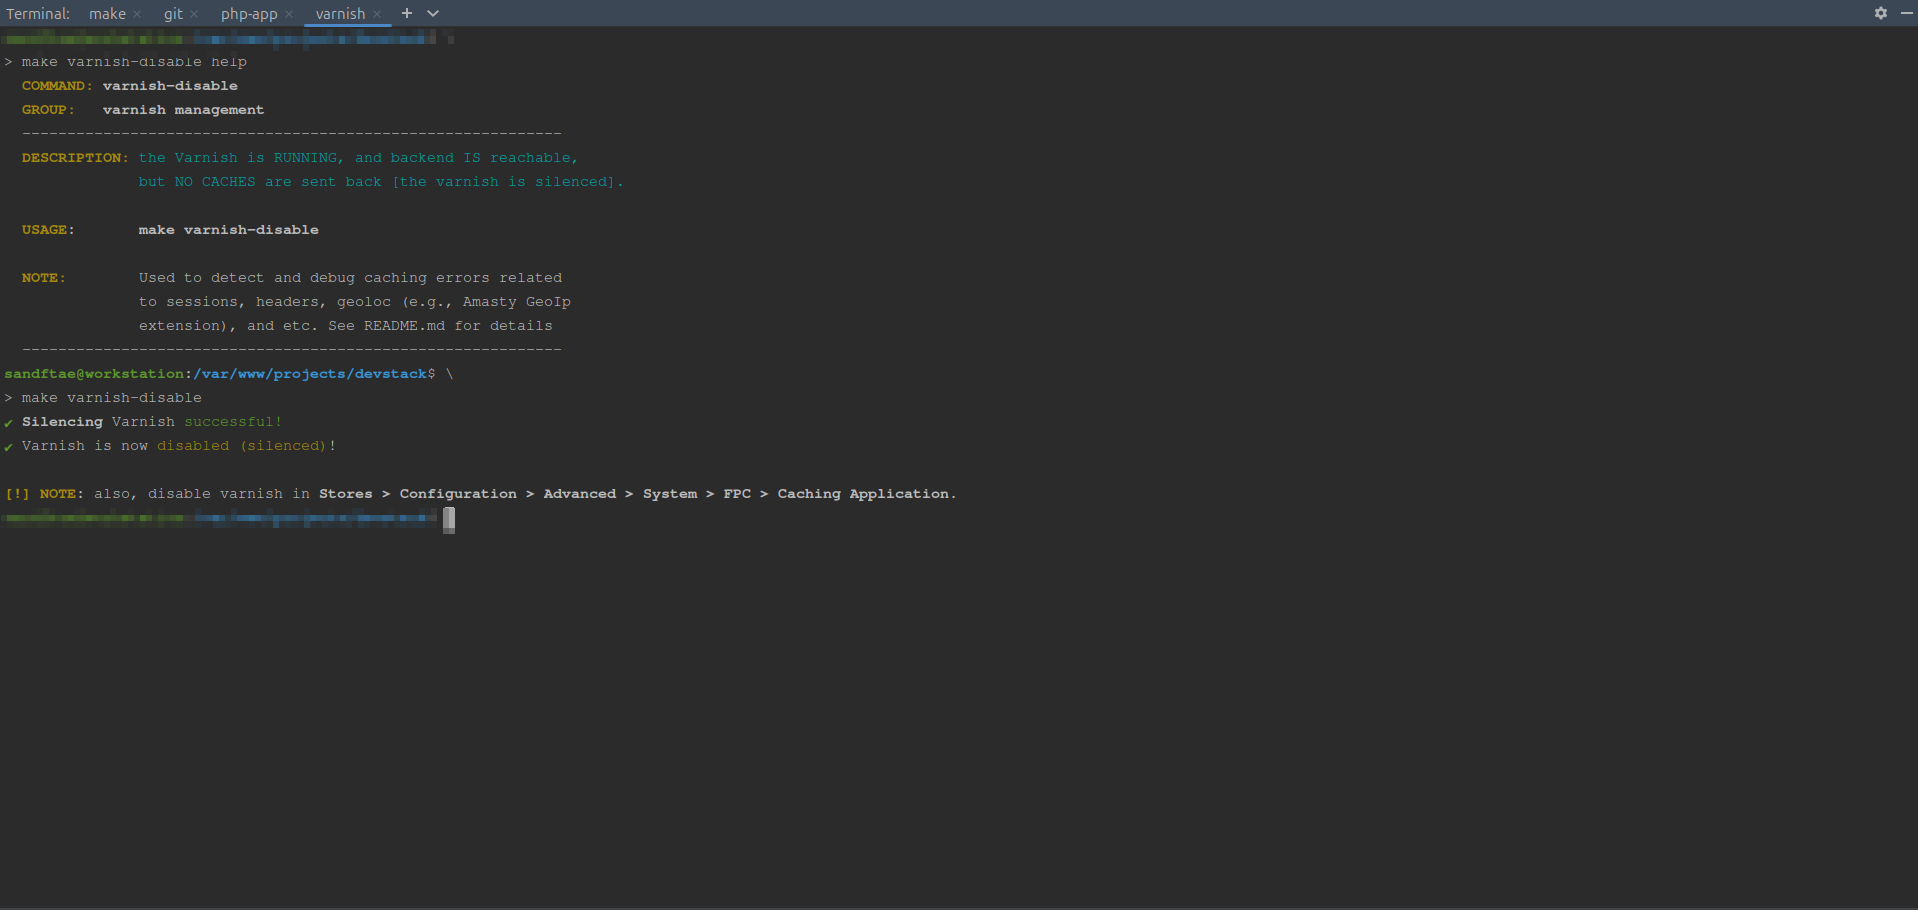
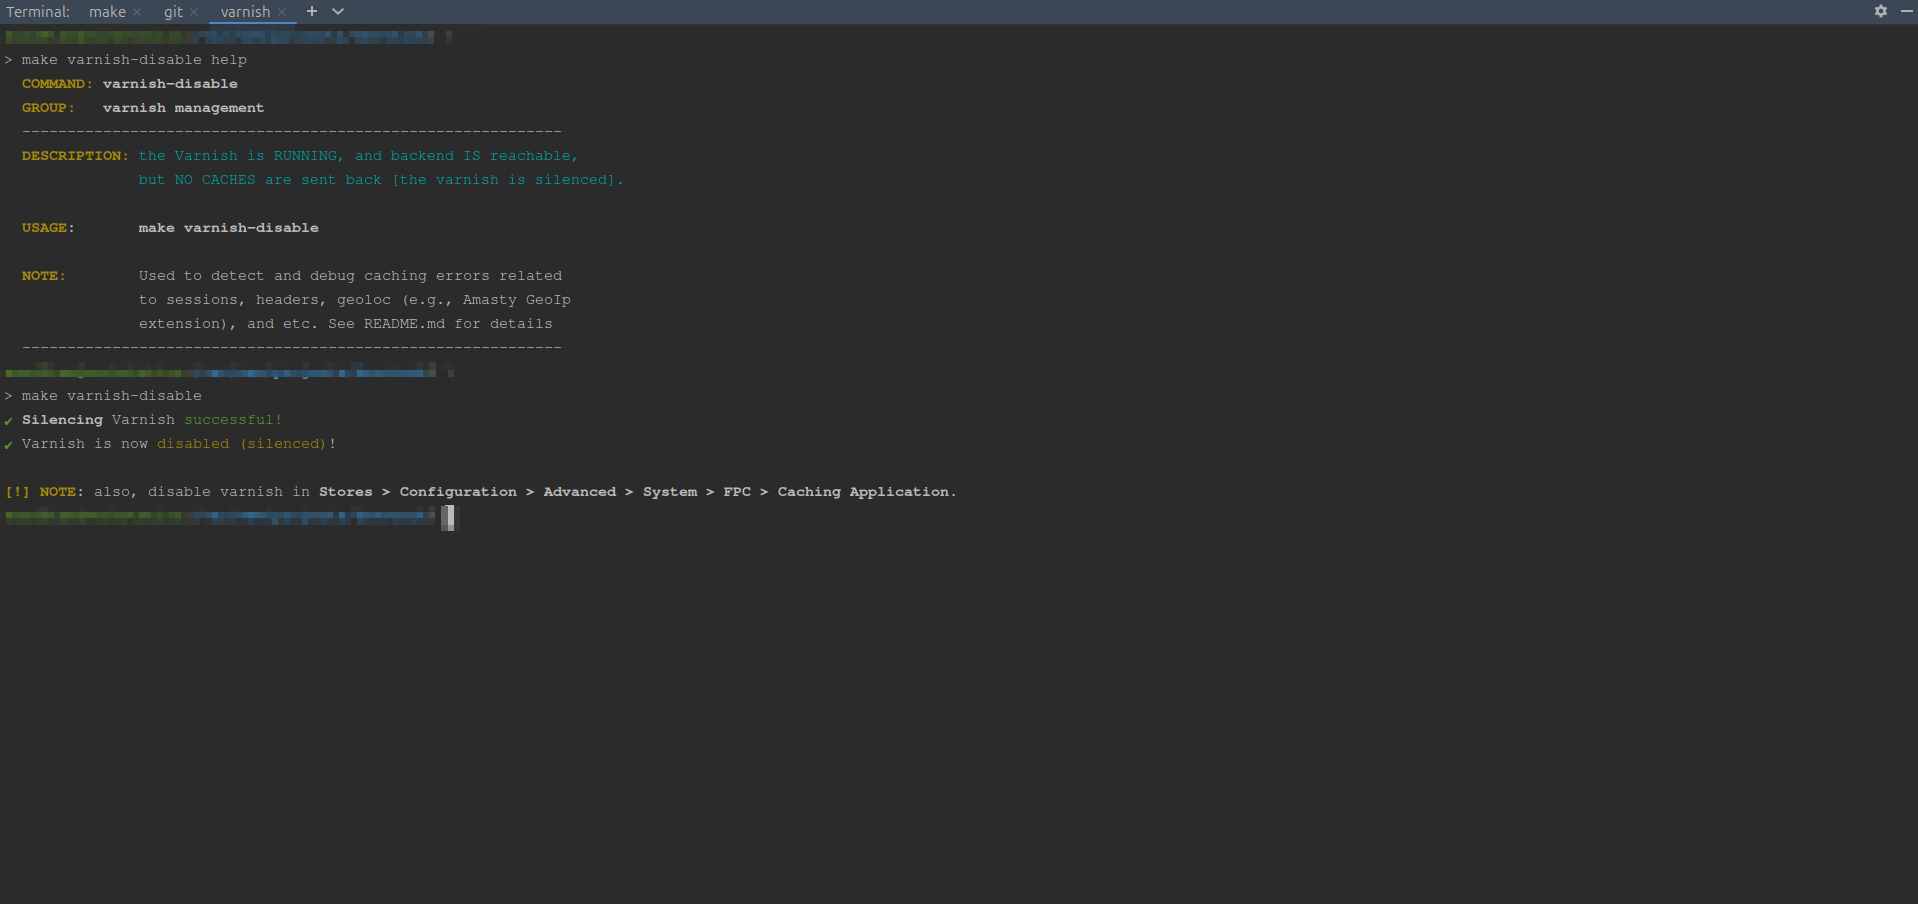
added XDEBUG configurstion description and related to this media files

diff --git a/README.md b/README.md
@@ -10,10 +10,6 @@
 
 ---
 
-# This README.md file is under review and do not fully finish yet
-
----
-
 An interactive, GUI-driven orchestrator designed to build modular Adobe Commerce environments for monolithic or headless development.
 Easily toggle between optional services, monitor performance, and manage your entire local infrastructure from a single interface.
 
@@ -46,7 +42,6 @@ Easily toggle between optional services, monitor performance, and manage your en
   <img src="docs/github/media/magma/list_2.png" width="45%" alt="List-2"/>
   <img src="docs/github/media/magma/list_3.png" width="45%" alt="List-3"/>
   <img src="docs/github/media/magma/list_4.png" width="45%" alt="List-3"/>
-  
 </details>
 
 ---
@@ -185,14 +180,14 @@ See [this](#database-importexport) for more details
     ```bash
       # at the Makefile level
       # this command configure urls, admin, etc
-       make setup-install
+      make setup-install
     
       # change commerce mode to developer  
       make mode-developer
       # or 
       make mode-production  
       
-      # use 'make mode-show' to see current commerce mode and docker environment mode  
+      # use "make mode-show" command to see current commerce mode and docker environment mode  
       ```
     - default admin/pass is ``admin/admin12345``, run this command to set your own:
    ```bash
@@ -253,7 +248,6 @@ make node-set version=MAJOR_NODE_VERSION
 | ``make down``        | stop and shutdown the environment   |
 | ``make php-app``     | enter PHP-app container             |
 | ``make web-app``     | enter Web-app container             |
-| ``make magma-build`` | run/re-run the GUI devstack builder |
 
 
 ### `help`
@@ -266,7 +260,14 @@ make create-ce h
 amke create-ce help
 ```
 
-See the following list of all command in existence: [click](COMMANDS.md)
+See this list of all existing commands: [click](docs/mds/COMMANDS.md) or run this in your terminal:
+```bash
+    # show command mets
+    make list help
+    
+    # run this command to list l commands
+    make list
+```
 
 ---
 
@@ -413,13 +414,13 @@ Use the following credentials to access the administrative panels of the include
 
 ### Xdebug Configuration
 
-*Xdebug* configuration covers only `PHPStorm` at this moment. Please, use this [reference](XDEBUG.md) to, actually, **configure** your `PHPStorm`
+*Xdebug* configuration covers only `PHPStorm` at this moment. Please, use this [reference](docs/github/mds/XDEBUG.md) to, actually, **configure** your `PHPStorm`
 
 ---
 
 ### Varnish and Adobe Commerce Modes
 
-The Varnish service is always enabled to maintain architectural consistency. 
+The Varnish service is always enabled to maintain architectural consistency. The `varnsih` container has two modes that are helpfully for `debugging` purposes.
 
 #### Silence Mode:
  - Varnish is `"silenced"`. The service remains active, but it passes all requests directly to the backend without caching data
@@ -451,9 +452,9 @@ This is essential for debugging backend-specific logic, like:
 
 #### Mode Control Commands
 
-To toggle the modes' logic, use the following commands:
+To switch mode logic, use the following commands:
 
-| Mode allows to use it                 | Command                                 | Result                                                                                                                              | Silence Headers                 |
+| Commerce mode                         | Command                                 | Result                                                                                                                              | Silence Headers                 |
 |:--------------------------------------|:----------------------------------------|:------------------------------------------------------------------------------------------------------------------------------------|:--------------------------------|
 | **production**<br/> and **developer** | `make varnish-disable`                  | `varnish is silenced`: direct backend access (no caching)                                                                           | `X-Varnish-Bypass: true`        |
 | **production**<br/> and **developer** | `make varnish-enable`                   | `varnish is fully active`: processes and caches data                                                                                | `X-Varnish-Bypass` not provided |
@@ -463,7 +464,8 @@ To toggle the modes' logic, use the following commands:
 ### ``X-Varnish-Bypass`` 
 
 > [!WARNING] 
-> Keep in mind that the ``X-Varnish-Bypass`` is **DEVSTACK** specific/custom variable
+> 
+> Keep in mind that the ``X-Varnish-Bypass`` flag is **DEVSTACK** specific/custom variable
 
 When you are in **varnish silence mode**, you can verify if the bypass is active by inspecting the headers of any request.
 
@@ -481,7 +483,8 @@ if (
     $_SERVER['HTTP_X_VARNISH_BYPASS'] === 'true'
 ) {
     # varnish is currently silenced/bypassed ----> do debugging
-    # REMEMBER THIS IS FOR DEVELOPMENT PURPOSES ONLY AND SHOULD NOT BE USED IN PRODUCTION OR TEST ENVIRONMENTS!
+    # REMEMBER THIS IS FOR DEVELOPMENT PURPOSES ONLY AND SHOULD
+    # NOT BE USED IN PRODUCTION OR TEST ENVIRONMENTS!
 }
 
 ```

diff --git a/docs/github/mds/XDEBUG.md b/docs/github/mds/XDEBUG.md
@@ -1,0 +1,114 @@
+# Xdebug Configuration Guide
+
+This guide describes how to configure `Xdebug` for both `Web requests` and `CLI commands` (including custom Adobe Commerce commands) in `PHPStorm`.
+
+> [!NOTE]
+> 
+> This guide is specifically tailored for PHPStorm and Docker-based environments.
+
+---
+
+## Table of Contents
+- [Manage Commands](#manage-commands)
+- [Web Request Debugging](#httphttps-request-debugging)
+- [CLI Debugging](#cli-debugging)
+
+---
+
+## Manage Commands
+
+Use these `make` commands to control the Xdebug status within your container:
+
+| Command               | Alias      | Description                        |
+|:----------------------|:-----------|:-----------------------------------|
+| `make xdebug-enable`  | `make xde` | enables Xdebug `in the container`  |
+| `make xdebug-disable` | `make xd`  | disables Xdebug `in the container` |
+
+---
+
+## HTTP/HTTPS Request Debugging
+
+Configuration consists of two main parts: 
+ - the `Debug/Proxy services`
+ - the `PHP Interpreter`
+
+### 1. PHPStorm Debug and DBGp Proxy
+Configure the ports and proxy settings to allow `PHPStorm` to listen for `incoming` Xdebug connections.
+Just follow screenshots:
+<details>
+<summary>View Configuration Screenshots</summary>
+<p align="center">
+  <img src="../media/xdebug/PORTS.png" width="45%" alt="PHPStorm Xdebug Service"/>
+  <img src="../media/xdebug/DBGp.png" width="45%" alt="DBGp Proxy Service"/>
+</p>
+</details>
+
+### 2. PHP Interpreter and Path Mappings
+To ensure proper communication between the `host` and the `php-app` container, you must configure the `remote interpreter` and `path mappings`.
+
+Configuration consists of two main parts:
+- the actual `PHP Interpreter` configuration
+- the `container` configuration
+
+> [!IMPORTANT]
+> 
+> Ensure the `PHP Interpreter` version you selected matches your `Adobe Commerce` version (e.g., PHP 8.4 for AC v2.4.8). The interpreter should point to the `php-app` container`s image.
+
+#### Step #1: PHP Interpreter
+Connect `PHPStorm` to the Docker `container's PHP binary`.
+<details>
+<summary>Setup Steps</summary>
+  <img src="../media/xdebug/CLI_INTERPRETER_1.png" width="45%"/>
+  <img src="../media/xdebug/CLI_INTERPRETER_2.png" width="45%"/>
+  <img src="../media/xdebug/CLI_INTERPRETER_3.png" width="45%"/>
+  <img src="../media/xdebug/CLI_INTERPRETER_4.png" width="45%"/>
+</details>
+
+#### Step #2: Container Configuration
+Align path mappings so `PHPStorm` can map the file structure `inside the container`.
+<details>
+<summary>Setup Steps</summary>
+  <img src="../media/xdebug/CONTAINERS_1.png" width="45%"/>
+  <img src="../media/xdebug/CONTAINERS_2.png" width="45%"/>
+</details>
+
+---
+
+## CLI Debugging
+
+To debug Adobe Commerce `CLI` or custom console commands, you must first complete the [Web Request Debugging](#web-request-debugging) setup.
+
+> [!IMPORTANT]
+>
+> Ensure the `PHP Interpreter` version you selected matches your `Adobe Commerce` version (e.g., PHP 8.4 for AC v2.4.8). The interpreter should point to the `php-app` container`s image.
+
+Just follow screenshots:
+
+<details>
+<summary>CLI Configuration Gallery</summary>
+  <img src="../media/xdebug/CLI/CLI_1.png" width="45%"/>
+  <img src="../media/xdebug/CLI/CLI_2.png" width="45%"/>
+  <img src="../media/xdebug/CLI/CLI_3.png" width="45%"/>
+  <img src="../media/xdebug/CLI/CLI_4.png" width="45%"/>
+  <img src="../media/xdebug/CLI/CLI_5.png" width="45%"/>
+</details>
+
+---
+
+## How to Start Debugging
+
+1.  **Enable Xdebug** in your terminal:
+    ```bash
+    make xde
+    # or 
+    make xdebug-enable
+    ```
+2.  **Start Listening:** click the `Start Listening for PHP Debug Connections` icon in PHPStorm (the `phone` icon)
+3.  **Run incoming request:** refresh your browser page to listed `HTTP/HTTPS` request
+3.  **Run CLI:**  press `bug` button of the `PHPStorm` to start CLI command. See this screenshot [gallery](#cli-debugging) to find that button
+4. **Disable Xdebug** in your terminal:
+    ```bash
+    make xdd
+    # or 
+    make xdebug-disable
+    ```
